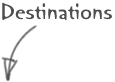
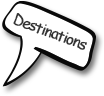
Destination Menu Label adding

diff --git a/destinations-trinco.html b/destinations-trinco.html
@@ -5,7 +5,6 @@
 <meta http-equiv="X-UA-Compatible" content="IE=edge">
 <meta name="viewport" content="width=device-width, initial-scale=1">
 <link href="font-awesome/css/font-awesome.min.css" rel="stylesheet" type="text/css" />
-<link href='http://fonts.googleapis.com/css?family=Lobster' rel='stylesheet' type='text/css'>
 <meta name="description" content="">
 <meta name="author" content="">
 <title>Splenor Tours</title>
@@ -21,7 +20,7 @@
         <script src="https://oss.maxcdn.com/libs/respond.js/1.4.2/respond.min.js"></script>
     <![endif]-->
 </head>
-<body style="background:url(img/bg-header-15.jpg) no-repeat;">
+<body class="trinco-bg">
 <div class="wrapper"> 
   <!-- ******HEADER****** -->
 <header id="header" class="header">
@@ -130,7 +129,8 @@
       </div>
     </div>
   </div>
-    <div class="navigation"> Destinations </div>
+    <div class="navigation">
+        <img src="img/navigate.png" alt="navigate_img"> </div>
 <nav class="float-nav closed">
   <ul>
     <li><a href="#">Kandy</a></li>

diff --git a/css/full-slider.css b/css/full-slider.css
@@ -119,10 +119,10 @@ html, body {
 .float-nav.closed li { margin-bottom: 1.375em; }
 .navigation {
     position: fixed;
-    bottom: 92px;
+    bottom: 70px;
     left: 0px;
     z-index: 0;
-    margin-left: 35px;
+    margin-left: 60px;
     font-family: 'Lobster', cursive;
     font-size: 20px;
 }
